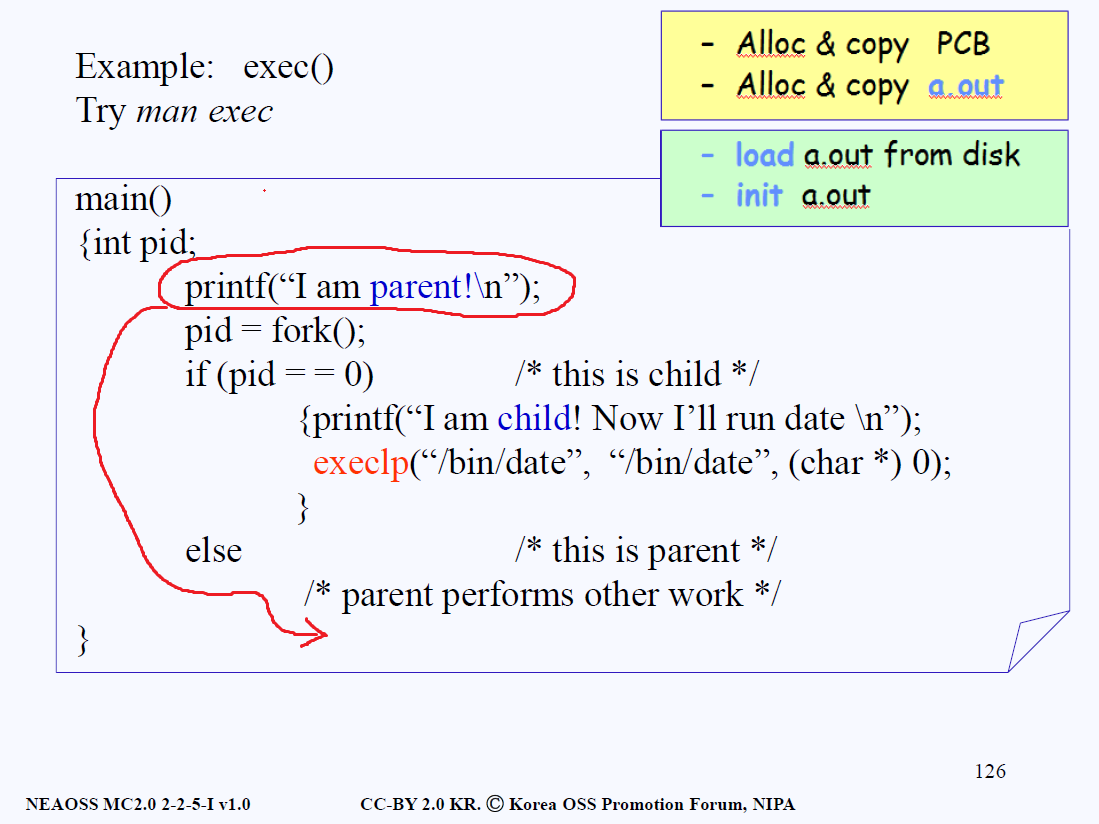
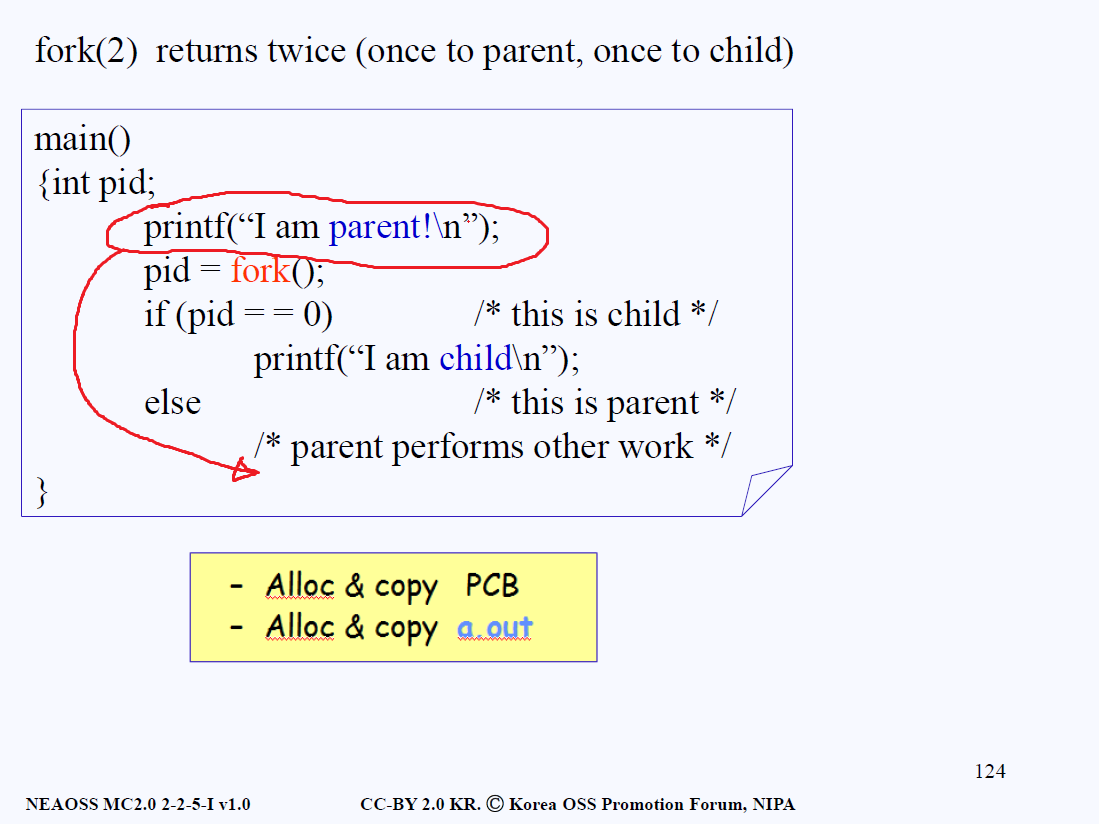
Updates 3ac15.md
Auto commit by GitBook Editor

diff --git a/3ac15.md b/3ac15.md
@@ -2,7 +2,11 @@
 
 ---
 
-2강에서 설명을 시작했던 fork\( \)의 작동 원리에 대해서 계속 진행한다. 먼저 앞으로 나올 템플릿들에 오류가 있다는 점을 언급하고 싶다. 오류가 있는 부분은 별도로 빨간색으로 마크해서 원래 있어야할 곳으로 표식을 해놨으니 참고 바란다.
+2강에서 설명을 시작했던 fork\( \)의 작동 원리에 대해서 계속 진행한다. 먼저 앞으로 나올 템플릿들에 오류가 있다는 점을 언급하고 싶다. 오류가 있는 부분은 별도로 빨간색으로 마크해서 원래 있어야할 곳으로 표식을 해놨으며 중간 중간 언급을 했으니 부디 헷갈리지 않길 바란다.
+
+## 주요 시스템 콜 동작 원리
+
+### 1. Fork\(2\)의 동작 원리
 
 ![](/assets/Chapter 3_0.PNG)
 
@@ -24,7 +28,27 @@
 
 ![](/assets/Chapter 3_1.PNG)
 
-위에서 수정했던 것과 마찬가지로 일단, printf\("I am Parent\n"\)는 else문에 속해 있어야 하는 것을 염두하고 살펴보면, 첫 번째 출력값인 I am Parent는 일단 부모 프로세스가 시행한 작업이다. 그리고 부모프로세스가 끝나면서 자식 프로세스가 CPU를 점유하게 되면서 if문 조건을 만족하게 되고, printf\("I am Child \n"\)를 실행하게 된다. 따라서 I am Child는 자식 프로세스가 시행한 작업이라고 할 수 있다. 또한 자식 프로세스는 부모 프로세스와 다르게 시간을 출력하는 구문도 포함하고 있기 때문에 마지막에 출력된 시간 또한 자식 프로세스가 진행한 작업이라고 할 수 있다.
+위에서 수정했던 것과 마찬가지로 일단, printf\("I am Parent\n"\)는 else문에 속해 있어야 하는 것을 염두하고 살펴보면, 첫 번째 출력값인 I am Parent는 일단 부모 프로세스가 시행한 작업이다. 그리고 부모프로세스가 끝나면서 자식 프로세스가 CPU를 점유하게 되면서 if문 조건을 만족하게 되고, printf\("I am Child \n"\)를 실행하게 된다. 따라서 I am Child는 자식 프로세스가 시행한 작업이라고 할 수 있다. if문 끝단에 있는 execlp 구문 같은 경우는 바로 아래의 단락에서 설명하려 한다.
+
+### 2. Exec\(3\) 동작 원리
+
+![](/assets/Chapter 3_2.PNG)
+
+몇 가지 배경지식에 대해 먼저 짚어보고자 한다. /bin 은 바이너리\(binary\) 파일만 모아둔 폴더\(directory\)를 의미한다. 그 폴더 안에는 바이너리 프로그램들이 수 십개가 존재하고 있는데, 그 바이너리 프로그램 마다 원래는 a.out 의 형식으로 되어 있지만 그 이름을 각자의 프로그램 제작사의 입맛에 맞게끔 설정해 놓았다\(hwp, ppt 등\).  
+
+코드를 살펴 보자면, 자식프로세스 차례가 왔을 때 I am child! 부분의 출력문을 출력하고, execlp\(exec 계열 함수\)를 실행하게 되어 있다. exec 함수 같은 경우, 현재 돌아가고 있는 프로세스 위에 자신의 프로세스를 완전히 덮어씌어\(overlay\) 버린다. 덮어쓴 후 exec 자신의 프로그램의 main\( \)으로 가는 것이 exec의 작동 원리다.
+
+새로운 프로세스가 생기는 것이 아니기 때문에, pid\(Process Id\)는 변하지 않는다. 다만 프로세스를 구성하는 코드\(기계어 코드\)와 데이터, 힙, 그리고 스택 영역의 값들이 exec으로 발생하는 새로운 프로그램의 것으로 바뀌게 된다.
+
+![](/assets/Chapter 3_3.PNG)
+
+설명은 위와 동일하다. exec은 자신의 프로세스를 현재 진행 중인 프로세스 위에 덮어 써버린다. 덮어 씀과 동시에 date의 main\( \)으로 넘어가는 것이고, 그 쪽에서 날짜를 출력해주는 작업을 진행한다. 그래서 유닉스나 리눅스에서는 프로세스의 생성이 fork\( \)하고 exec\( \) 두 스텝이 존재한다.
+
+fork\( \)는 image\(= 소스코드\)와 PCB를 전부 복사하는데, exec\( \)의 경우에는 현재 image에 새로운 실행\(execute\)코드를 디스크로부터 바이너리 파일 형태로 가져온 후에 현재 image에 덮어 씌우기\(overlay\)를 진행하고 자신 프로세스의 main\( \)으로 진행하는 것이다. 한마디로 기존의 작업하던 것을 자신의 프로그램으로 갈아 치우고 자신의 프로그램을 가동시키는 행위라고 할 수 있다.
+
+### 3. Wait\(2\) 동작 원리
+
+
 
 
 
